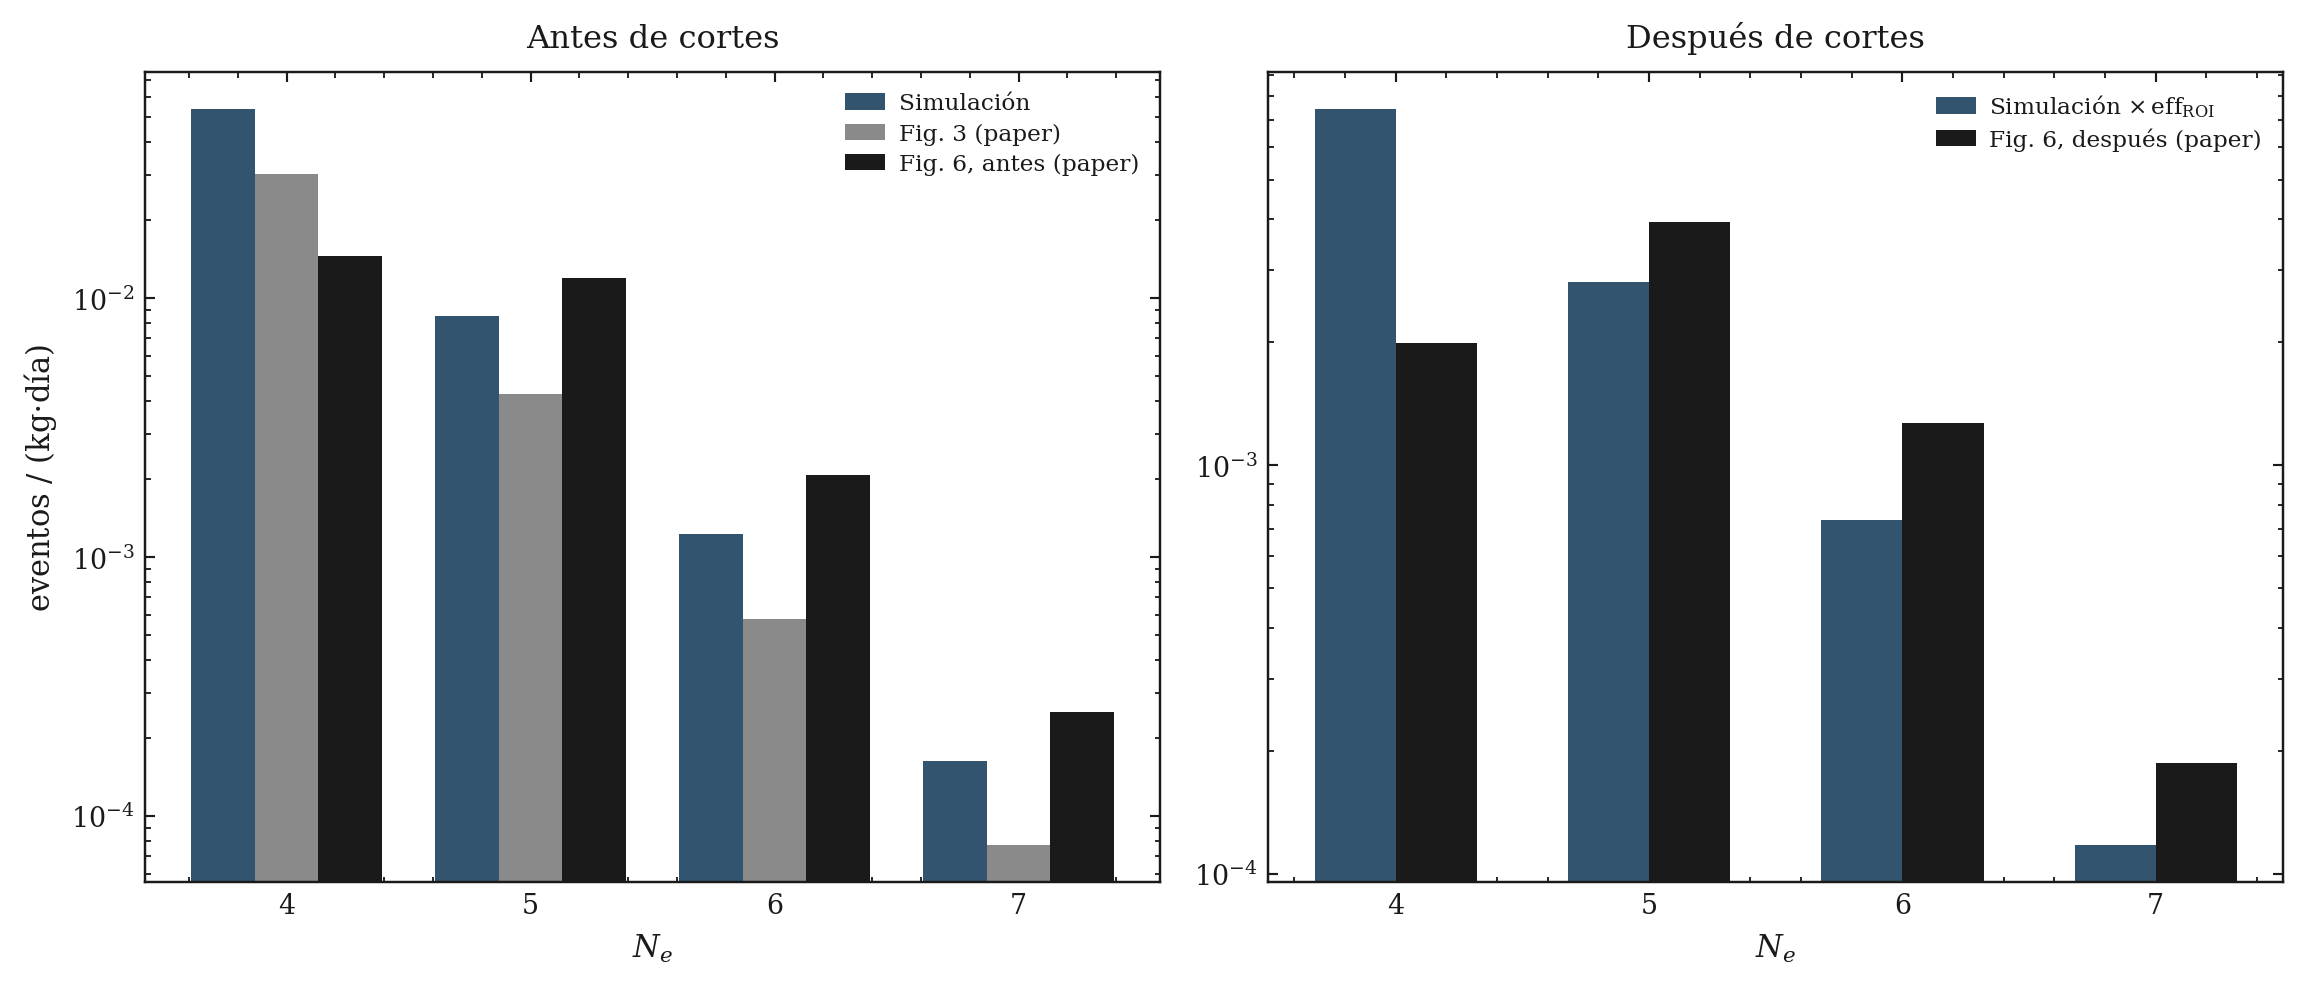
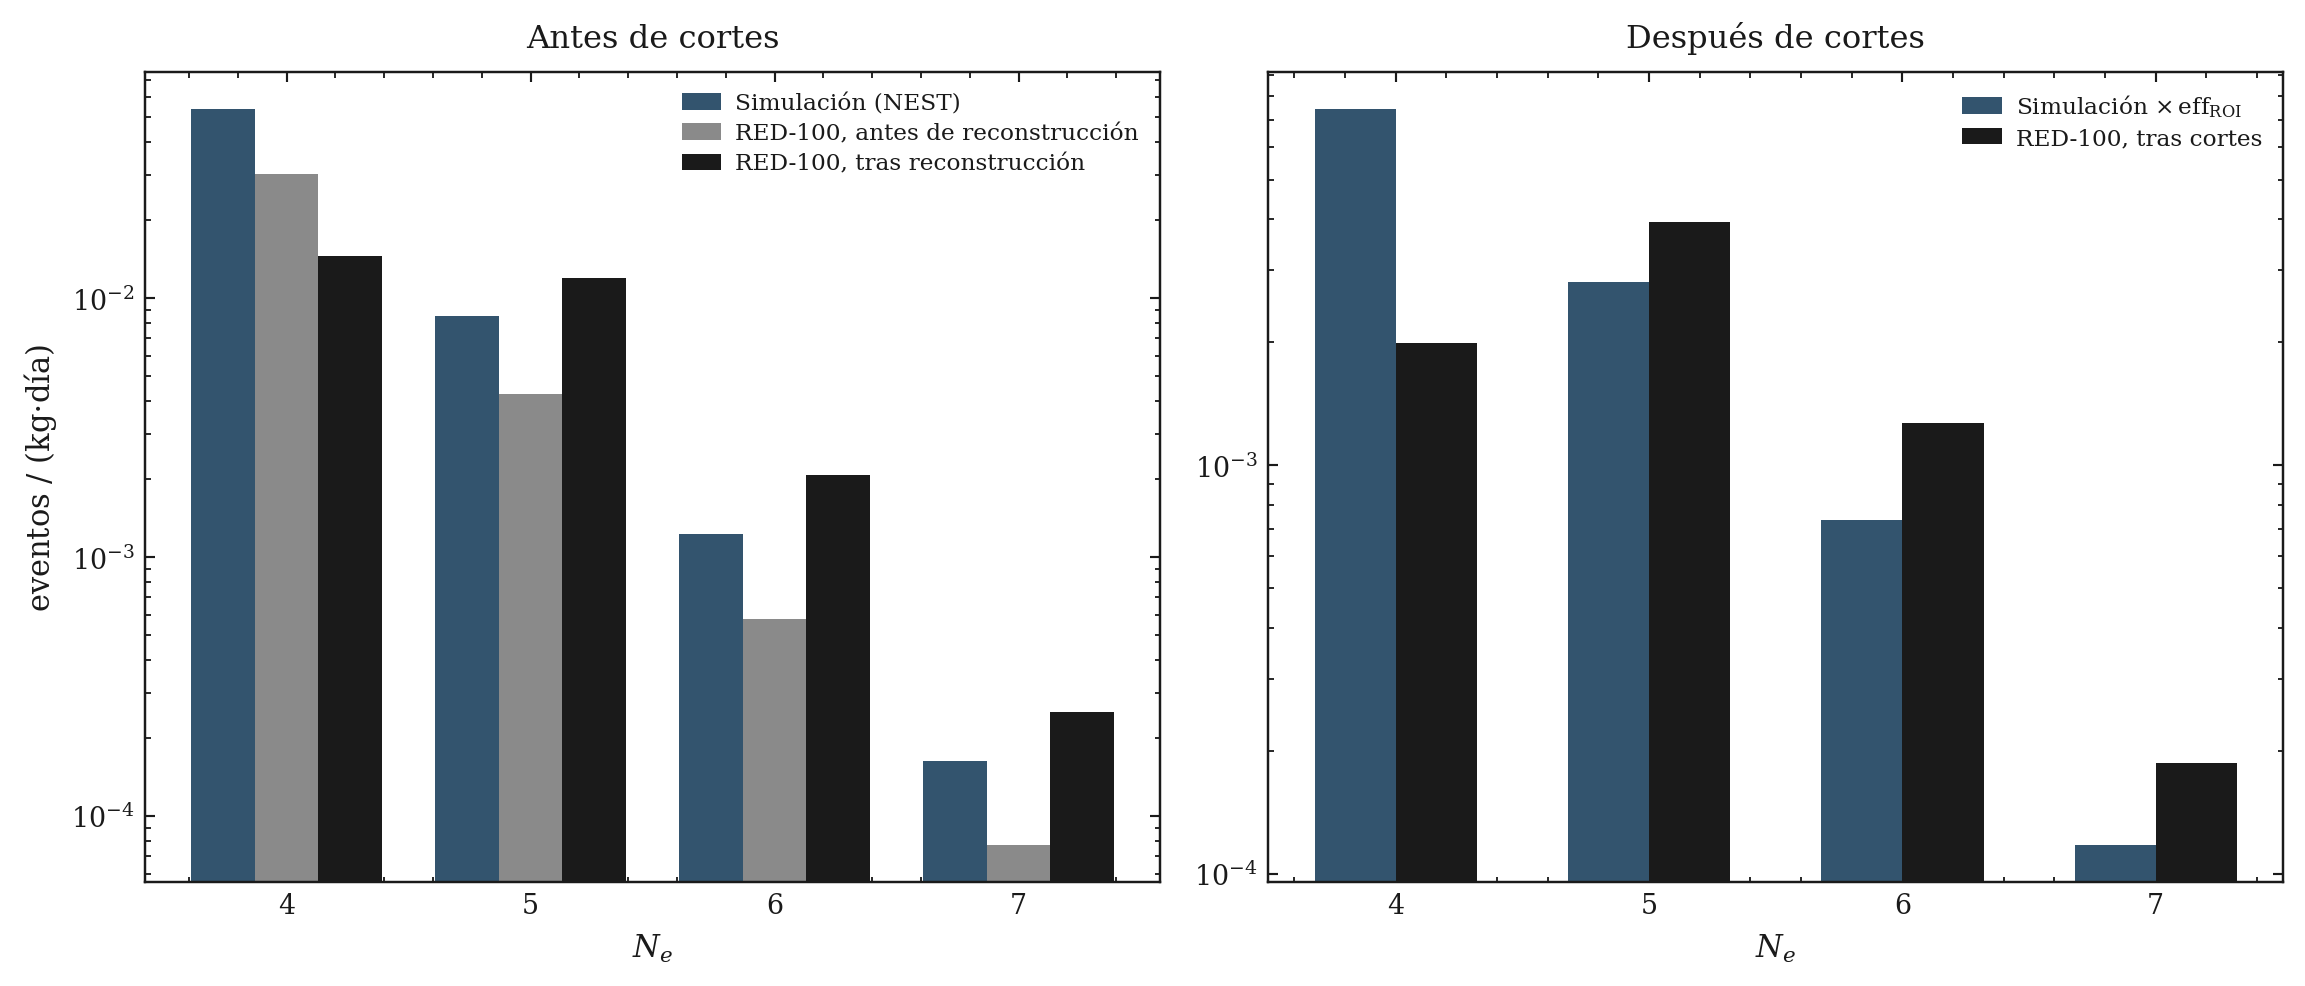
Quita 'paper'/numero de figura de la leyenda de fig_roi_cuts_Xe

Changed region(s): [[0.2811, 0.0913, 0.4998, 0.1826], [0.8434, 0.0913, 0.9996, 0.1521]]

diff --git a/python/roi_cuts_validacion_Xe.py b/python/roi_cuts_validacion_Xe.py
@@ -43,9 +43,9 @@ x = np.arange(len(Ne))
 fig, (axA, axB) = plt.subplots(1, 2, figsize=(10.6, 4.6))
 
 w = 0.26
-axA.bar(x - w, sim_a, width=w, color=C_XE, label="Simulación")
-axA.bar(x, fig3, width=w, color=GRIS, label="Fig. 3 (paper)")
-axA.bar(x + w, f6_a, width=w, color=NEGRO, label="Fig. 6, antes (paper)")
+axA.bar(x - w, sim_a, width=w, color=C_XE, label="Simulación (NEST)")
+axA.bar(x, fig3, width=w, color=GRIS, label="RED-100, antes de reconstrucción")
+axA.bar(x + w, f6_a, width=w, color=NEGRO, label="RED-100, tras reconstrucción")
 axA.set_yscale("log")
 axA.set_xticks(x); axA.set_xticklabels([f"{int(n)}" for n in Ne])
 axA.set_xlabel(r"$N_e$")
@@ -55,7 +55,7 @@ axA.legend(loc="upper right", fontsize=7.6)
 
 w2 = 0.32
 axB.bar(x - w2/2, sim_d, width=w2, color=C_XE, label="Simulación $\\times\\,$eff$_{\\rm ROI}$")
-axB.bar(x + w2/2, f6_d, width=w2, color=NEGRO, label="Fig. 6, después (paper)")
+axB.bar(x + w2/2, f6_d, width=w2, color=NEGRO, label="RED-100, tras cortes")
 axB.set_yscale("log")
 axB.set_xticks(x); axB.set_xticklabels([f"{int(n)}" for n in Ne])
 axB.set_xlabel(r"$N_e$")
